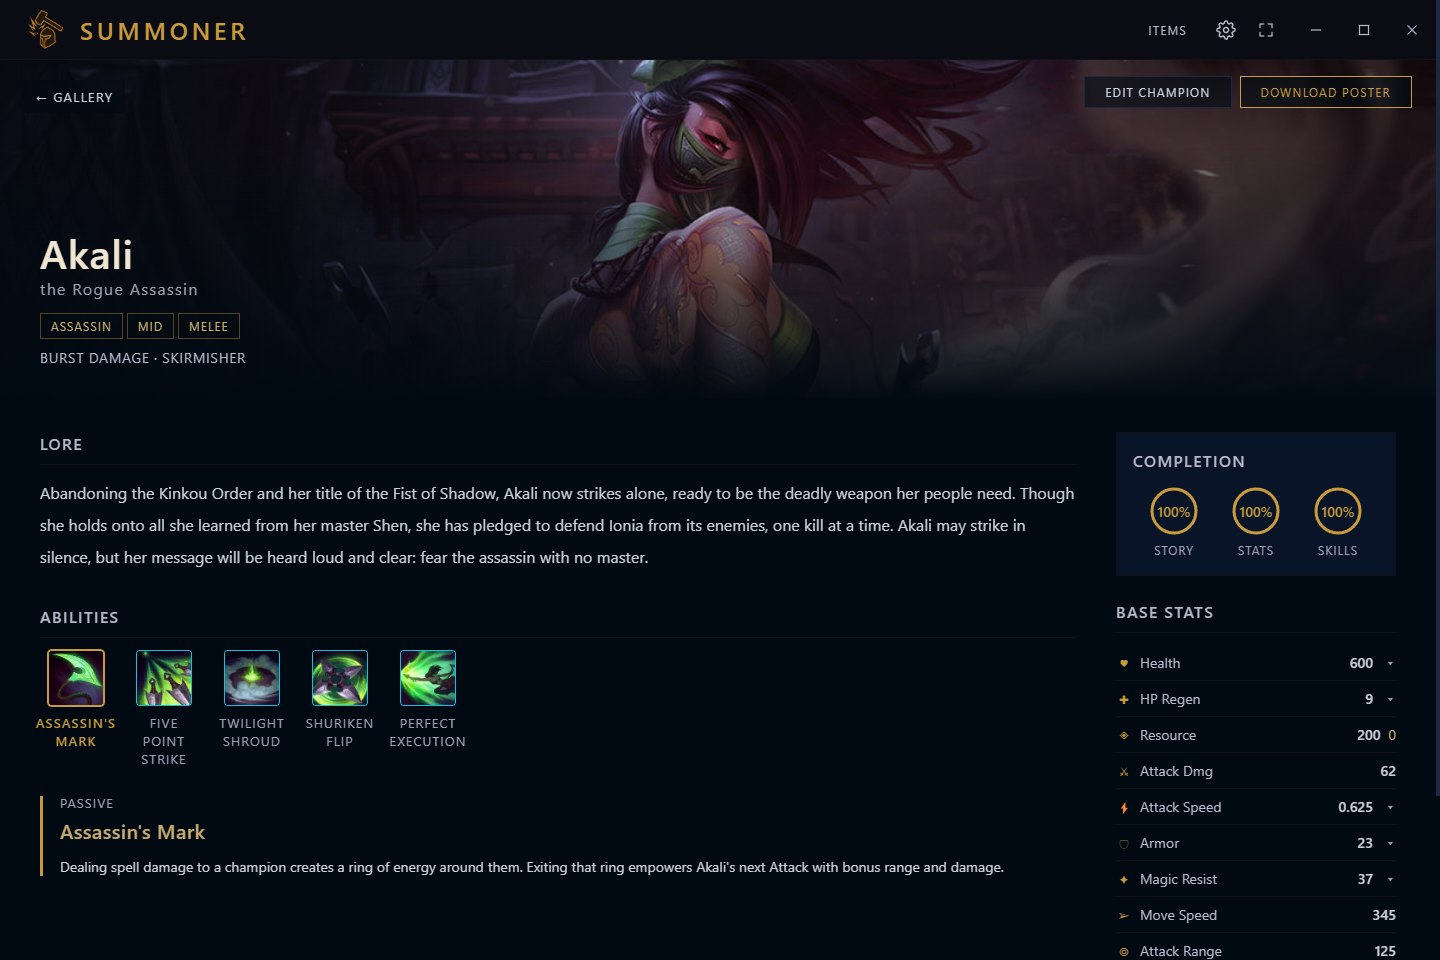
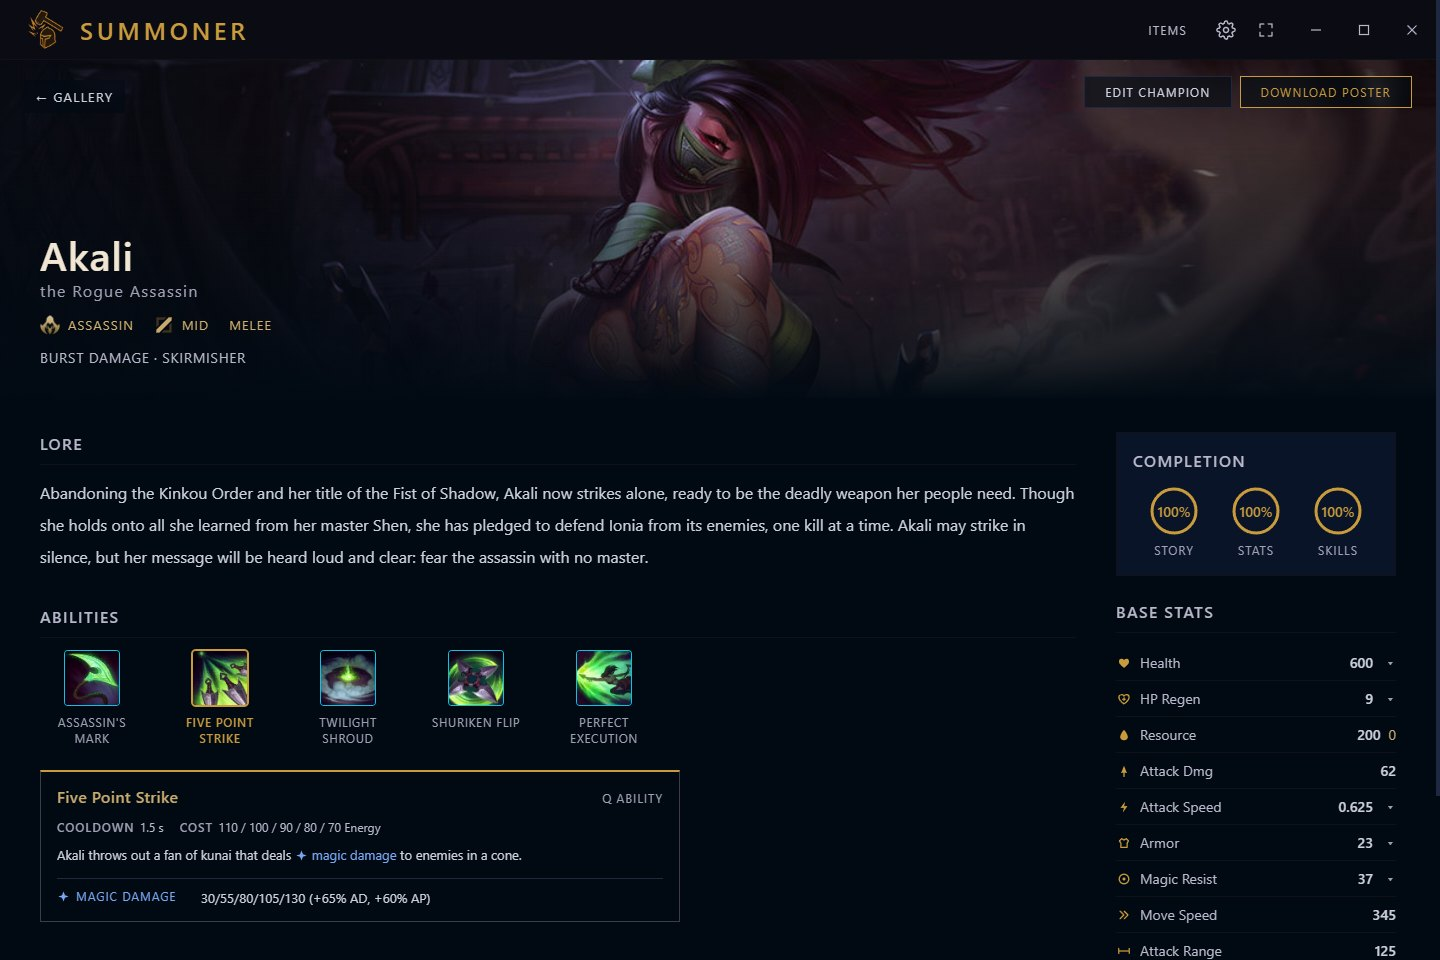
Summoner page: fresh v0.4.0 screenshots (tooltip text, win-rate bar, effects editor) and updated feature cards

Changed region(s): [[0.0312, 0.6562, 0.5938, 0.9688], [0.0312, 0.25, 0.1875, 0.3438], [0.625, 0.875, 0.6875, 0.9062]]

diff --git a/projects/summoner/index.html b/projects/summoner/index.html
@@ -4,7 +4,7 @@
 <meta charset="UTF-8">
 <meta name="viewport" content="width=device-width, initial-scale=1.0">
 <title>Summoner — Connor Hopkins</title>
-<meta name="description" content="A local-first Electron desktop app for designing League of Legends-style champions: game-accurate stats, modular ability kits with a built-in journal, champion theme music, item builds, and a showcase page, with an auto-updating Windows installer.">
+<meta name="description" content="A local-first Electron desktop app for designing League of Legends-style champions: game-accurate stats, modular ability kits with tooltip-style effects and a built-in journal, champion theme music, item builds, a win-rate projection, and a showcase page, with an auto-updating Windows installer.">
 <link rel="stylesheet" href="../../css/base.css">
 <link rel="stylesheet" href="style.css">
 <link rel="icon" href="data:,">
@@ -50,16 +50,18 @@
 
 <section class="shots wrap">
   <div class="shot-grid">
-    <figure class="shot"><a href="assets/shot-gallery.jpg" target="_blank" rel="noopener"><img src="assets/shot-gallery.jpg" alt="The champion gallery showing eight champion tiles with completion rings and lane tags"></a><figcaption>Gallery</figcaption></figure>
-    <figure class="shot"><a href="assets/shot-view.jpg" target="_blank" rel="noopener"><img src="assets/shot-view.jpg" alt="The showcase page for Akali with an icon row and ability spotlight"></a><figcaption>Showcase page</figcaption></figure>
-    <figure class="shot"><a href="assets/shot-story.jpg" target="_blank" rel="noopener"><img src="assets/shot-story.jpg" alt="The Story panel with splash art framing, lore, and a champion theme player with a volume slider"></a><figcaption>Story panel: splash framing and theme music</figcaption></figure>
+    <figure class="shot"><a href="assets/shot-gallery.jpg" target="_blank" rel="noopener"><img src="assets/shot-gallery.jpg" alt="The champion gallery: a New champion bar above eight champion tiles with completion rings, class and lane icons"></a><figcaption>Gallery</figcaption></figure>
+    <figure class="shot"><a href="assets/shot-view.jpg" target="_blank" rel="noopener"><img src="assets/shot-view.jpg" alt="The showcase page for Akali with class and lane icons, lore, an ability icon row and the base stats"></a><figcaption>Showcase page</figcaption></figure>
+    <figure class="shot"><a href="assets/shot-tooltip.jpg" target="_blank" rel="noopener"><img src="assets/shot-tooltip.jpg" alt="Akali's Five Point Strike on the showcase page: the description reads like the game's tooltip, with magic damage in its own color and the numbers underneath"></a><figcaption>Ability text like the game's tooltip</figcaption></figure>
+    <figure class="shot"><a href="assets/shot-story.jpg" target="_blank" rel="noopener"><img src="assets/shot-story.jpg" alt="The Story panel with splash art framing, lore, and a champion theme player with a volume slider"></a><figcaption>Story: splash framing and theme music</figcaption></figure>
     <figure class="shot"><a href="assets/shot-levels.jpg" target="_blank" rel="noopener"><img src="assets/shot-levels.jpg" alt="The showcase stats panel with the Health and Attack Speed level tables expanded"></a><figcaption>Stats that level like the game's</figcaption></figure>
-    <figure class="shot"><a href="assets/shot-abilities.jpg" target="_blank" rel="noopener"><img src="assets/shot-abilities.jpg" alt="The ability editor for Gnar's Q with the ability keys, a two-row stat block, and the journal column"></a><figcaption>Ability editor with a permanent journal</figcaption></figure>
+    <figure class="shot"><a href="assets/shot-abilities.jpg" target="_blank" rel="noopener"><img src="assets/shot-abilities.jpg" alt="The ability editor for Gnar's Q with a description tooltip, effects with per-rank numbers, and the journal column"></a><figcaption>Ability editor, effects and a permanent journal</figcaption></figure>
     <figure class="shot"><a href="assets/shot-blocks.jpg" target="_blank" rel="noopener"><img src="assets/shot-blocks.jpg" alt="An alternate-form ability block for Boulder Toss under Gnar's Q"></a><figcaption>Modular ability blocks</figcaption></figure>
+    <figure class="shot"><a href="assets/shot-winrate.jpg" target="_blank" rel="noopener"><img src="assets/shot-winrate.jpg" alt="The win-rate bar showing 47.3% with its details open: what drives the number and how each ability is counted at level 13"></a><figcaption>Win-rate projection</figcaption></figure>
     <figure class="shot"><a href="assets/shot-stats.jpg" target="_blank" rel="noopener"><img src="assets/shot-stats.jpg" alt="The suggested-stats pop-up offering class averages"></a><figcaption>Suggested stats from Data Dragon</figcaption></figure>
     <figure class="shot"><a href="assets/shot-items.jpg" target="_blank" rel="noopener"><img src="assets/shot-items.jpg" alt="The item build panel with six items and the details of Trinity Force"></a><figcaption>Build theorycrafting</figcaption></figure>
   </div>
-  <p class="shots-note">Screenshots show sample champions (Aatrox, Gnar, Akali and a few more) loaded from Riot's public Data Dragon feed. The journal notes and the silent theme track are made up for the demo. Click a screenshot to open it full size.</p>
+  <p class="shots-note">Screenshots show sample champions (Aatrox, Gnar, Akali and a few more) loaded from Riot's public Data Dragon feed. The ability numbers, journal notes and the silent theme track are made up for the demo. Click a screenshot to open it full size.</p>
 </section>
 
 <section class="block wrap">
@@ -67,15 +69,11 @@
   <div class="feature-grid">
     <div class="feature">
       <h3>Identity, lore &amp; splash art</h3>
-      <p>Name, title, lore, classes, lane, resource type and playstyle. Splash art has a drag-to-reposition focal point, and a gold frame shows exactly what the gallery tile will keep.</p>
+      <p>Name, title, lore, classes, lane, resource type and playstyle. Splash art has a drag-to-reposition focal point, and a gold frame shows exactly what the gallery tile will keep. Class and lane icons from the game mark each tile.</p>
     </div>
     <div class="feature">
-      <h3>Modular ability kits</h3>
-      <p>Passive plus Q/W/E/R, each with cooldown, cost, and effects that scale per rank, plus custom icons. Any key can take "+" blocks: extra passives, alternate forms like Gnar's Mega spells, or condition-unlocked recasts like Akali's.</p>
-    </div>
-    <div class="feature">
-      <h3>Ability journal</h3>
-      <p>A notes column beside every ability for scrapped mechanics and rough ideas, with tabs per ability. In a narrow window it collapses into a compact strip above the form.</p>
+      <h3>Modular kits &amp; a journal</h3>
+      <p>Passive plus Q/W/E/R, each with cooldown, cost, and effects that scale per rank, plus custom icons. Any key can take "+" blocks: extra passives, alternate forms like Gnar's Mega spells, or recasts like Akali's. A permanent journal beside every ability keeps scrapped mechanics and rough ideas.</p>
     </div>
     <div class="feature">
       <h3>Champion themes</h3>
@@ -83,7 +81,7 @@
     </div>
     <div class="feature">
       <h3>Stats that behave like the game</h3>
-      <p>Whole-number and decimal stats are kept apart, attack speed grows as a percentage of its base, and level tables follow the game's own growth curve rather than a straight line.</p>
+      <p>Whole-number and decimal stats are kept apart, attack speed grows as a percentage of its base, and level tables follow the game's own growth curve rather than a straight line. One set of stat icons is used everywhere.</p>
     </div>
     <div class="feature">
       <h3>Live Data Dragon sync</h3>
@@ -91,7 +89,7 @@
     </div>
     <div class="feature">
       <h3>Build theorycrafting</h3>
-      <p>Up to four named item builds per champion, with stacking rules read from the data, pinnable item details, and a real-time stat comparison against the champion's base stats.</p>
+      <p>Up to four named item builds per champion, with stacking rules read from the data, pinnable item details, and a real-time stat comparison against the champion's base stats. Lethality and penetration on items are read and priced.</p>
     </div>
     <div class="feature">
       <h3>Showcase &amp; poster</h3>
@@ -99,19 +97,23 @@
     </div>
     <div class="feature">
       <h3>Win-rate projection</h3>
-      <p>A slim bar above the editor projects a win rate as you tune: one number with a plus-or-minus band, what is driving it, and what would sharpen it. Stats are scored against real champions of the same class; the ability weights are hand-tuned, and it says so.</p>
+      <p>A slim bar above the editor projects a win rate as you tune: one number with a plus-or-minus band, what is driving it, and what would sharpen it. Stats are scored against real champions of the same class; the ability weights are hand-tuned, and it says so. It prices shred, penetration, stat buffs, taunts and roots too.</p>
     </div>
     <div class="feature">
-      <h3>Effects with real scaling</h3>
-      <p>Any effect, built in or your own ("taunt"), scaled from a stat picker with base, bonus and total, per-N scalers like +1% per 80 bonus armor, the target's health, and custom values such as stacks. Each effect reads as one tooltip line.</p>
+      <h3>Effects by what they do</h3>
+      <p>Add an effect by kind (damage, buff, debuff, state or your own), then which one: physical, magic or true damage, healing, shielding, armor shred, slow, taunt and more. Then the numbers per rank, scaled from a stat picker with base, bonus and total, per-N scalers like +1% per 80 bonus armor, the target's health, or values such as stacks. Raise or lower a stat for a duration.</p>
     </div>
     <div class="feature">
-      <h3>Numbers that follow the text</h3>
-      <p>Write {Damage} in a description and the numbers fill in from that effect, so the sentence can't drift from the kit. Rename or remove an effect and the tokens move with it; the showcase and poster show the finished text.</p>
+      <h3>Text like the game's tooltip</h3>
+      <p>Write {Damage} in a description and it reads as "magic damage" in its own color with a small icon, with the numbers and scalings in rows underneath. Rename or remove an effect and the tokens move with it, so the sentence can't drift from the kit. The showcase and poster show the finished text.</p>
+    </div>
+    <div class="feature">
+      <h3>Numbers are optional</h3>
+      <p>The first launch asks whether you want the story and abilities only, or the full picture. Settings has a switch each for ability numbers, stats and items, and the win-rate projection. Hiding is never deleting, so nobody is locked out of the other side.</p>
     </div>
     <div class="feature">
       <h3>Local, tested, self-updating</h3>
-      <p>One SQLite file on your machine, with JSON export and import. The installer checks GitHub Releases for updates, and every release runs a test suite first.</p>
+      <p>One SQLite file on your machine, with JSON export and import. The installer (about 75 MB) checks GitHub Releases for updates, and every release runs a test suite first.</p>
     </div>
   </div>
 </section>
